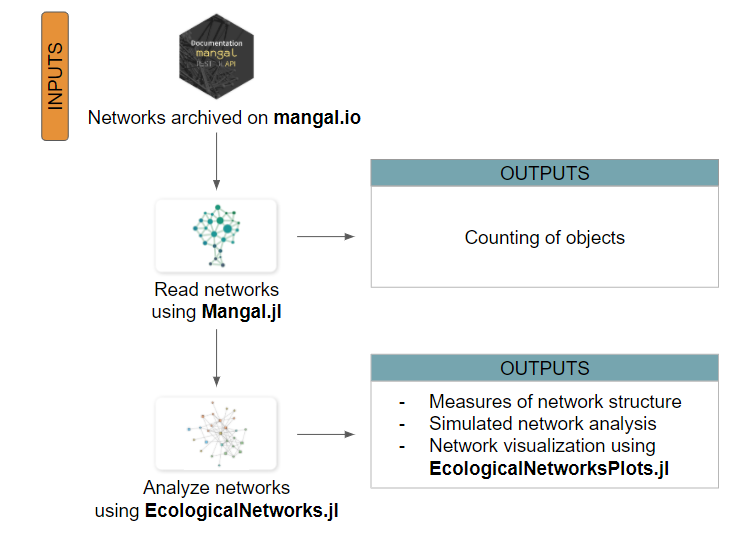
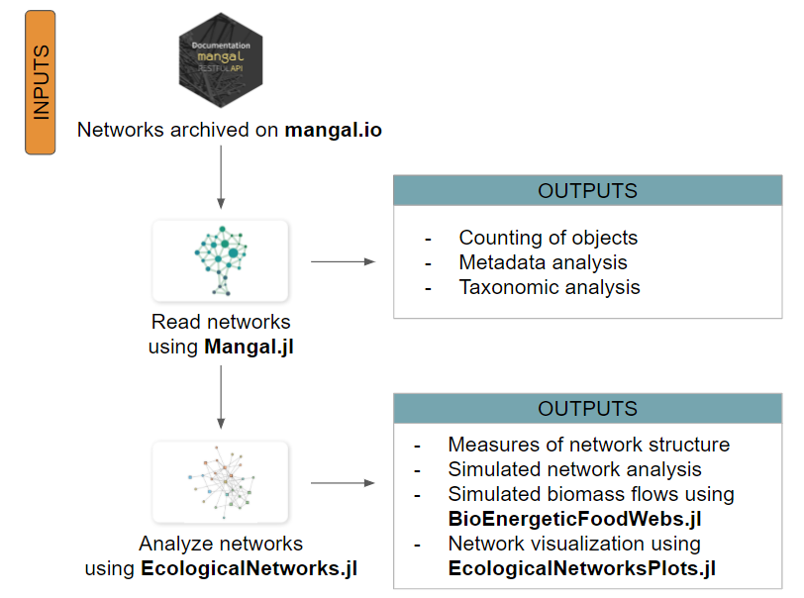
update workflow figure

diff --git a/paper/paper.md b/paper/paper.md
@@ -36,7 +36,7 @@ Ecological networks are a gold mine of biological information. From defining spe
 
 Together, two interrelated packages in EcoJulia provide a useful methodological framework for the analysis of ecological networks: [`Mangal.jl`](https://github.com/EcoJulia/Mangal.jl) and [`EcologicalNetworks.jl`](https://github.com/EcoJulia/EcologicalNetworks.jl). The [Mangal project](https://mangal.io/#/) was set up to meet the need for an extensive ecological interaction database with an easy data retrieval system. In Julia, `Mangal.jl` is used to read data from `mangal.io`. Once imported, these networks can then be analyzed using `EcologicalNetworks.jl`, which could also be used to simulate ecological networks under different statistical and ecological models. Our suggested methodological framework is described in more detail in \autoref{fig:workflow}. `Mangal.jl` and `EcologicalNetworks.jl` are designed to work with the most recent versions of Julia (Julia 1.3+). Here we provide an overview of the functionalities of these two packages, and illustrate how they can be used to answer fundamental ecological questions.
 
-![**Proposed methodological framework for the analysis of ecological networks in Julia.** **Inputs**: More than 1300 ecological networks of various types are archived on the `mangal.io` database. These networks are read in Julia using `Mangal.jl`. **Outputs from `Mangal.jl`**: Objects (e.g. species, interactions, metadata) can be counted directly using `Mangal.jl`. **Outputs from `EcologicalNetworks.jl`**: All types of networks, including probabilistic networks, can be further analyzed using `EcologicalNetworks.jl`. The main measures and analysis supported by this package include species richness, connectance, linkage density, species' degree, centrality measures, trophic level analysis, shortest paths, nestedness, motif counting, modularity, beta diversity measures, and information theoretic analysis. Empirical networks can then be compared to a random network distribution simulated using null models, constrained network permutations, and structural random models. **Backend methods**: These measures and analysis methods are described in further depth in @DelmBess19, @PoisCirt16, and @PoisBeli19a.\label{fig:workflow}](fig/workflow.PNG)
+![**Proposed methodological framework for the analysis of ecological networks in Julia.** **Inputs**: More than 1300 ecological networks of various types are archived on the `mangal.io` database. These networks are read in Julia using `Mangal.jl`. **Outputs from `Mangal.jl`**: Objects (e.g. species, interactions, some metadata) can be counted directly using `Mangal.jl`. `Mangal.jl` can also perform metadata (e.g. location, collection date, reference) and taxonomic analysis. **Outputs from `EcologicalNetworks.jl`**: All types of networks, including probabilistic networks, can be further analyzed using `EcologicalNetworks.jl`. The main measures and analysis supported by this package include species richness, connectance, linkage density, species' degree, centrality measures, trophic level analysis, shortest paths, nestedness, motif counting, modularity, beta diversity measures, and information theoretic analysis. Empirical networks can then be compared to a random network distribution simulated using null models, constrained network permutations, and structural random models. `EcologicalNetworks.jl` is well integrated with `BioEnergeticFoodWebs.jl`, for the simulation of biomass flows in food webs, and with `EcologicalNetworksPlots.jl`, for network visualization. **Backend methods**: These measures and analysis methods are described in further depth in @DelmBess19, @PoisCirt16, and @PoisBeli19a.\label{fig:workflow}](fig/workflow.PNG)
 
 ## State of the field
 
